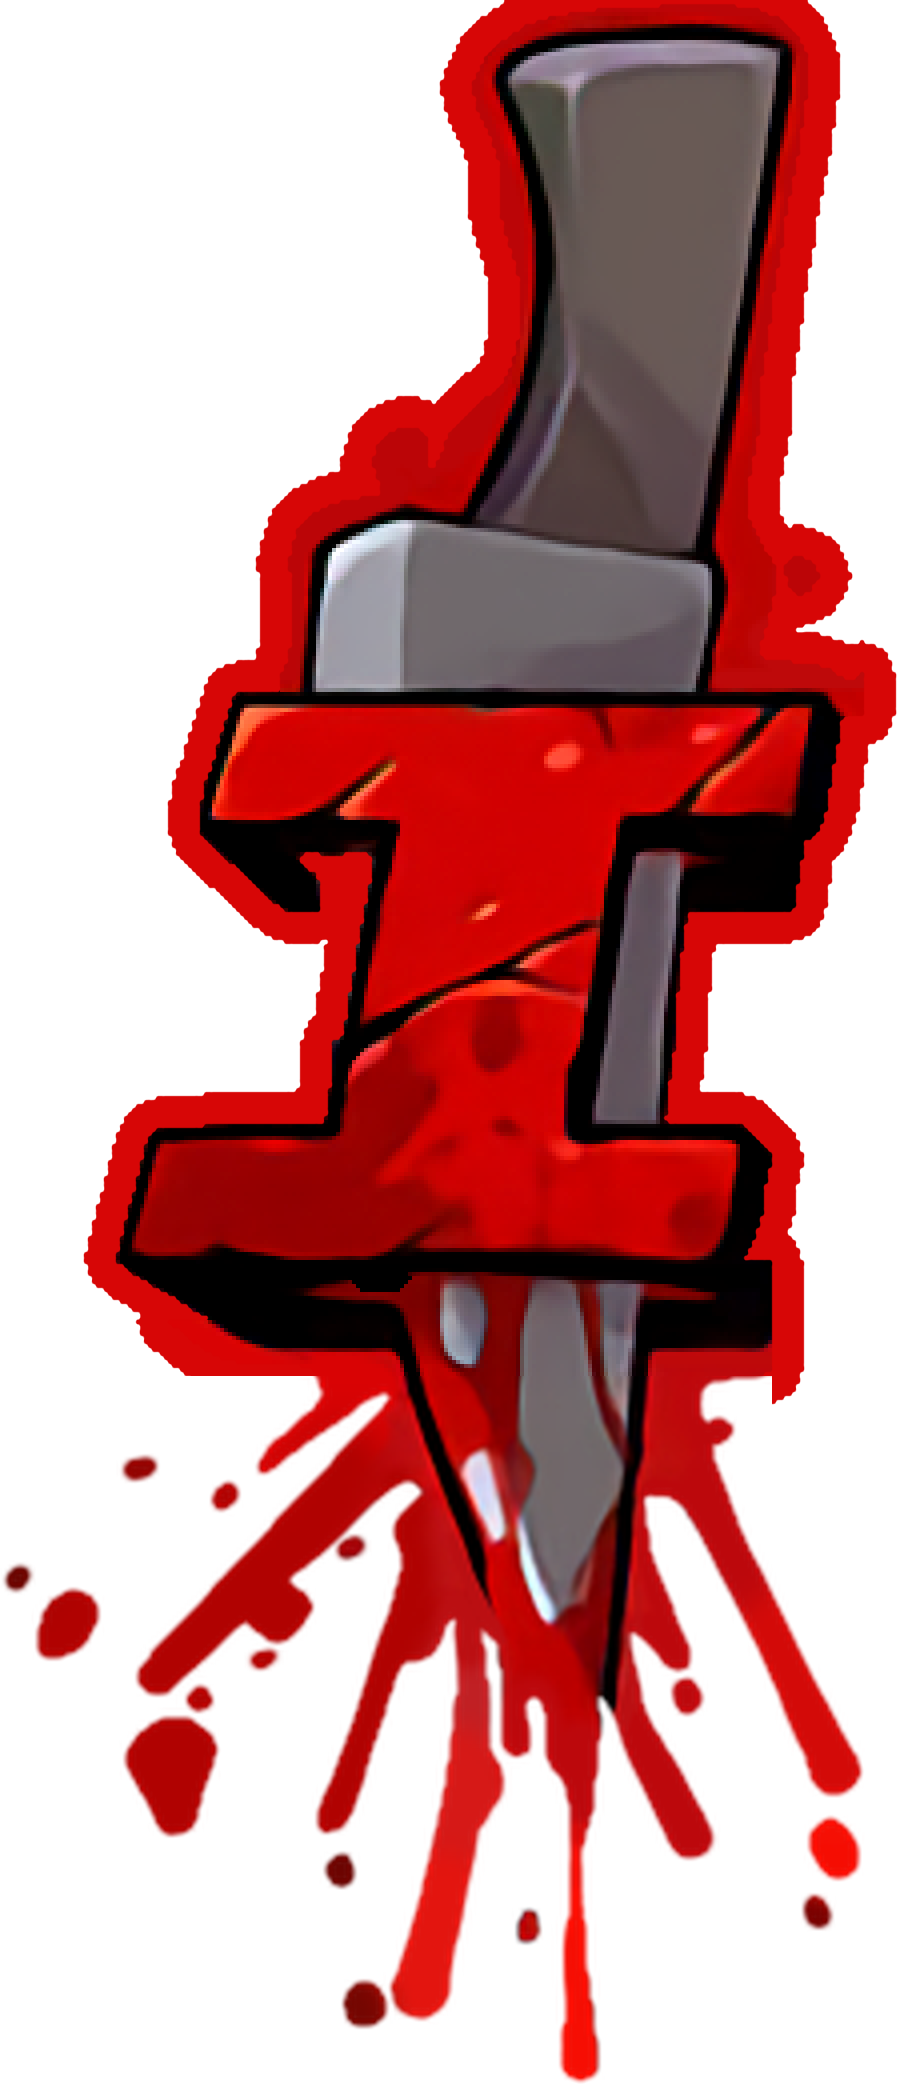
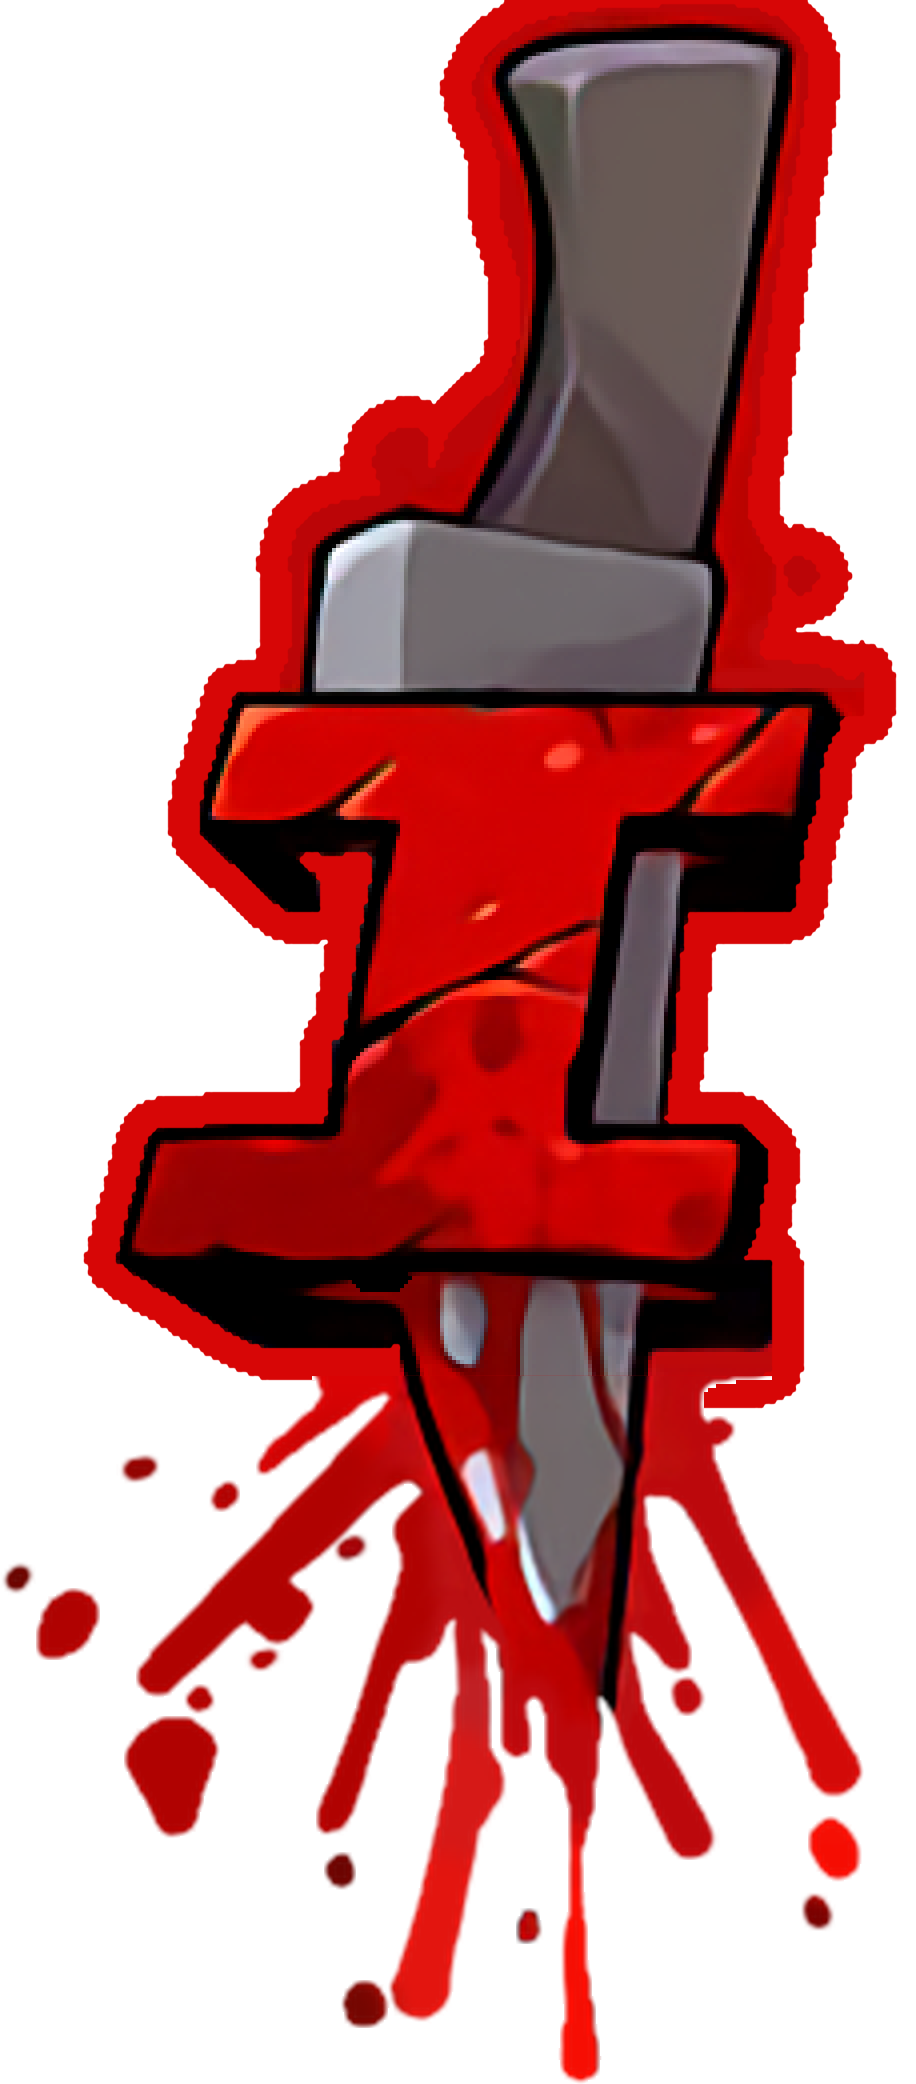
Repentance I: a proper outline round its bottom-right corner
The I borrowed the S's black outline beside its bottom bar (shared_outline
now takes a list of pieces, and the I is not in it), and its red glow was
grown round the blood too, then cut off flat where the blood began. The
glow now rings the I and knife alone, and the blood is laid over it as
drawn. The other logos regenerate unchanged.

Claude-Session: https://claude.ai/code/session_01LaEujuuQLDmiMkvddHrYGk

diff --git a/tools/logo_letters.py b/tools/logo_letters.py
@@ -105,14 +105,15 @@ so Godot never imports the source), is JSON:
                   bands the face with its own outline and counters (Uma Musume),
                   "hole_colour" paints another face showing in a hole;
                   "as_drawn": [{"piece", "polygon"}] (in cut) — inside the
-                  polygon, the logo's own pixels exactly (no band, no redraw);
+                  polygon, the logo's own pixels exactly (no redraw), over a
+                  band grown round the rest of the letter;
                   "extrude": {"dx", "dy", "colour", "skip"} (in cut) gives a
                   block letter its 3D side by sweeping its face (Isaac);
                   "outline_max": n keeps only dark pixels past the face (not
                   a glow), "side": {"dy", "dx"} adds the dark 3D side the face
                   sweeps over, "close_dark": n brings in dark counters;
-                  "shared_outline": true (in cut) lets a line two letters share
-                  belong to both;
+                  "shared_outline": true or [pieces] (in cut) lets a line two
+                  letters share belong to both;
                   "hard_edge": [pieces] — pixel-font letters, every pixel fully
                   on or off; "scale": n — write the letters n times the logo's
                   size, shapes redrawn crisp (for a small source logo; an
@@ -522,8 +523,10 @@ def cut(cfg_path: Path, preview: Path | None = None) -> list[Path]:
                 painted |= restored
             ds = nd.distance_transform_edt(~f)
             # shared_outline: a white line between two letters belongs to both
-            keep = f | ((a > 0) & ~background & (True if cut.get("shared_outline") else mine) & (ds <= reach))
-            if cut.get("shared_outline"):
+            so = cut.get("shared_outline")
+            shared = bool(so) and (so is True or n in so)  # true, or a list of pieces
+            keep = f | ((a > 0) & ~background & (True if shared else mine) & (ds <= reach))
+            if shared:
                 # ...but never past it into the next letter's face (counters a
                 # letter encloses come back with whole_letter's hole filling)
                 keep &= f | ~fill
@@ -646,6 +649,14 @@ def cut(cfg_path: Path, preview: Path | None = None) -> list[Path]:
                 # (a SQUARE closing: a diamond one leaves a small V of its own)
                 # An inked logo whose letters are split on purpose (red Hades'
                 # slash) sets join 0, so its gaps stay open.
+                # A part kept exactly as drawn (Repentance's blood) is no part of
+                # the shape the band is grown round: the band rings the letter
+                # alone, and the drawn part sits over it
+                drawn = np.zeros((H, W), bool)
+                for ad in cut.get("as_drawn", []):
+                    if ad["piece"] == n:
+                        drawn |= _polygon_mask((H, W), ad["polygon"])
+                clean = clean & ~drawn
                 whole = clean
                 if band_cfg.get("join", 5):
                     whole = nd.binary_closing(clean, np.ones((3, 3)), iterations=band_cfg["join"] if "join" in band_cfg else 5,
@@ -693,6 +704,9 @@ def cut(cfg_path: Path, preview: Path | None = None) -> list[Path]:
                     rgb[ring] = band_cfg["colour"]
                     band_masks = (clean, grown, np.array(band_cfg["colour"], float), band_cfg.get("smooth", 0))
                 al[ring] = 1
+                dr = drawn & (a > 0)
+                rgb[dr] = A[dr][:, :3]  # so the letter's box takes them in
+                al[dr] = a[dr] / 255
                 face = None
         else:
             fs = nd.gaussian_filter(f.astype(float), FILL_SMOOTH_SIGMA) > 0.5 if smooth else f
@@ -779,7 +793,8 @@ def cut(cfg_path: Path, preview: Path | None = None) -> list[Path]:
                 continue
             # Inside this polygon the logo's own pixels, untouched: no band, no
             # redraw (Repentance's blood, which a glow round every drop ruins).
-            poly = _polygon_mask((H, W), ad["polygon"])[y0:y1, x0:x1]
+            # where the logo drew nothing, the letter's own outline stays
+            poly = (_polygon_mask((H, W), ad["polygon"]) & (a > 0))[y0:y1, x0:x1]
             src = A[y0:y1, x0:x1].clip(0, 255).astype(np.uint8)
             if img.size != (x1 - x0, y1 - y0):
                 src = np.asarray(Image.fromarray(src).resize(img.size, Image.LANCZOS))
